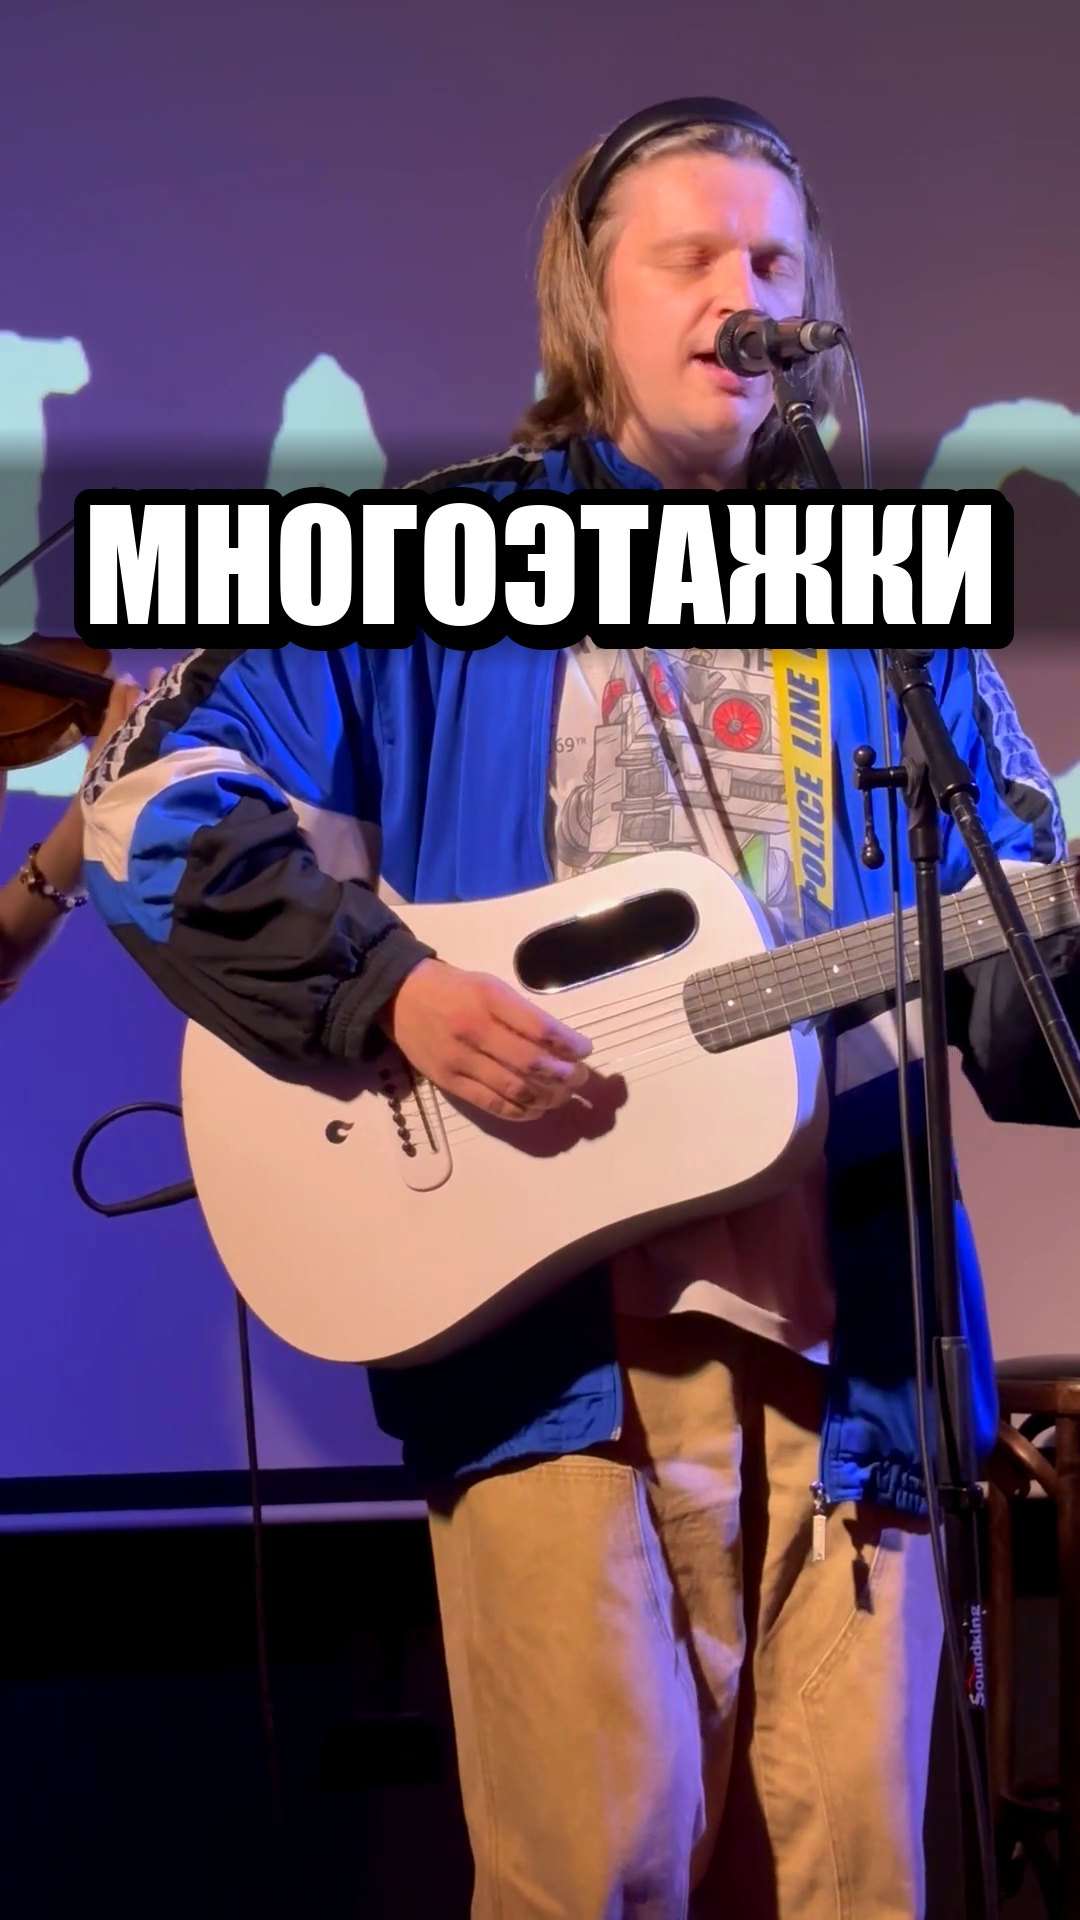
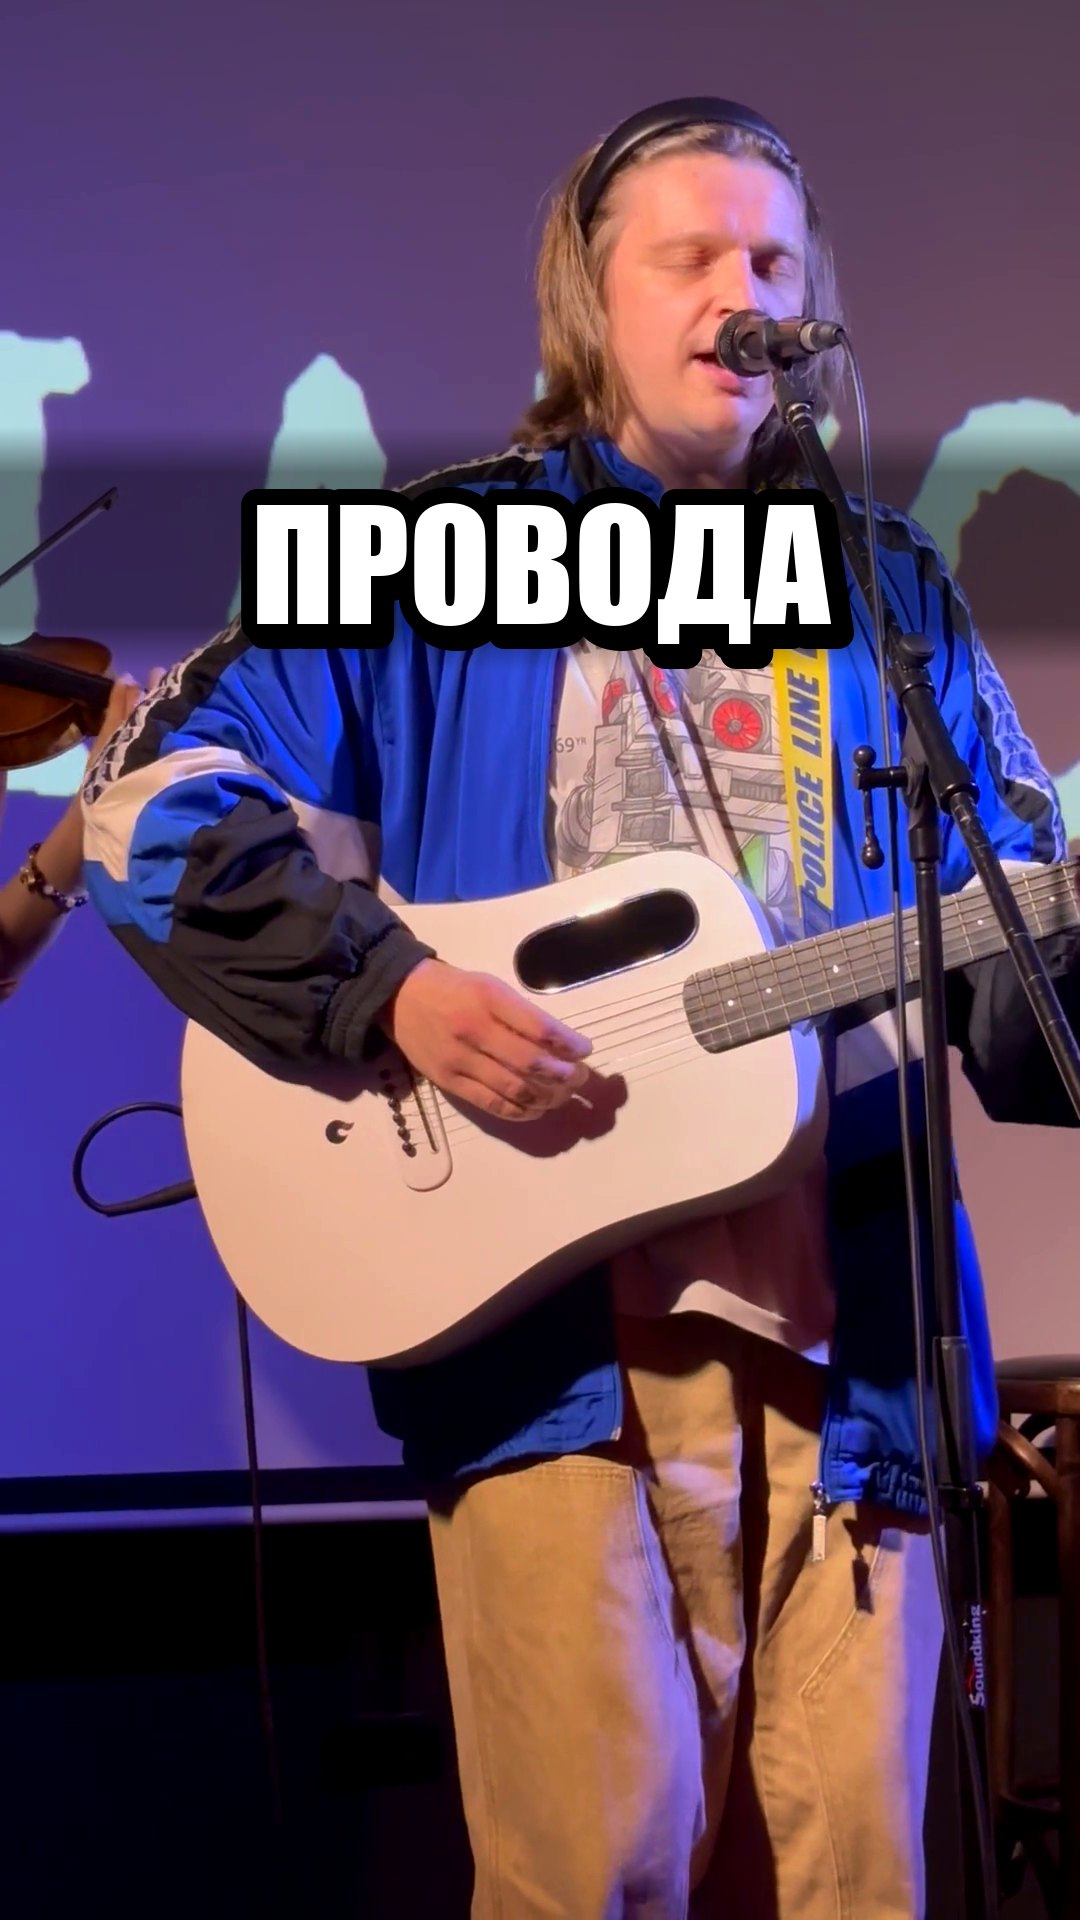
обновление сайта 2026-08-23 02:05

Changed region(s): [[0.0611, 0.25, 0.9472, 0.375]]

diff --git a/captions.html b/captions.html
@@ -920,7 +920,7 @@
         <a class="dl" href="covers/172_2026-08-23_%D0%BC%D0%B8%D1%80%D0%B0-%D1%83-%D1%80%D0%B5%D0%BA%D0%B8.jpg" download>Скачать обложку</a>
       </div>
         <div class="text">
-          <p class="caption" id="c34">Летают мужики. Вопросов к тексту больше, чем ответов #юмор #дети #музыка</p>
+          <p class="caption" id="c34">Неожиданный поворот #юмор #дети #музыка</p>
           <div class="actions">
             <button data-copy="c34">Копировать подпись</button>
             
@@ -945,7 +945,7 @@
         <a class="dl" href="covers/173_2026-08-23_%D0%BA%D0%BE%D0%BD%D1%86%D0%B5%D1%80%D1%82-1906.jpg" download>Скачать обложку</a>
       </div>
         <div class="text">
-          <p class="caption" id="c35">«Мафия» живьем. Спи, моя маленькая Италия #песня #концерт #live</p>
+          <p class="caption" id="c35">Спи, моя маленькая Италия. Это «Мафия» #песня #музыка</p>
           <div class="actions">
             <button data-copy="c35">Копировать подпись</button>
             
@@ -970,7 +970,7 @@
         <a class="dl" href="covers/013_2025-12-01_027_2025-12-01_080219.jpg" download>Скачать обложку</a>
       </div>
         <div class="text">
-          <p class="caption" id="c36">Обязательный ритуал после обеда: забраться на стол и слушать папины песни. Критик строгий #чартер #музыка #песня</p>
+          <p class="caption" id="c36">Пока размер и прочность стола позволяет #юмор #дети #музыка</p>
           <div class="actions">
             <button data-copy="c36">Копировать подпись</button>
             
@@ -995,7 +995,7 @@
         <a class="dl" href="covers/174_2026-08-23_%D0%BA%D0%BE%D0%BD%D1%86%D0%B5%D1%80%D1%82-1907.jpg" download>Скачать обложку</a>
       </div>
         <div class="text">
-          <p class="caption" id="c37">«Хьюстон» живьем #песня #концерт #live</p>
+          <p class="caption" id="c37">Сделали открытую репетицию #репетиция #музыка #песня</p>
           <div class="actions">
             <button data-copy="c37">Копировать подпись</button>
             
@@ -1020,7 +1020,7 @@
         <a class="dl" href="covers/175_2026-08-23_%D0%BA%D0%BE%D0%BD%D1%86%D0%B5%D1%80%D1%82-1909.jpg" download>Скачать обложку</a>
       </div>
         <div class="text">
-          <p class="caption" id="c38">«Многоэтажки» живьем #песня #концерт #live</p>
+          <p class="caption" id="c38">Песня «Провода», можно послушать в Яндекс Музыке #песня #музыка #релиз</p>
           <div class="actions">
             <button data-copy="c38">Копировать подпись</button>
             
@@ -1070,7 +1070,7 @@
         <a class="dl" href="covers/176_2026-08-23_%D0%BA%D0%BE%D0%BD%D1%86%D0%B5%D1%80%D1%82-1910.jpg" download>Скачать обложку</a>
       </div>
         <div class="text">
-          <p class="caption" id="c40">«Оруэлл» живьем #песня #концерт #релиз</p>
+          <p class="caption" id="c40">Ору Оруэлла #песня #музыка #юмор</p>
           <div class="actions">
             <button data-copy="c40">Копировать подпись</button>
             
